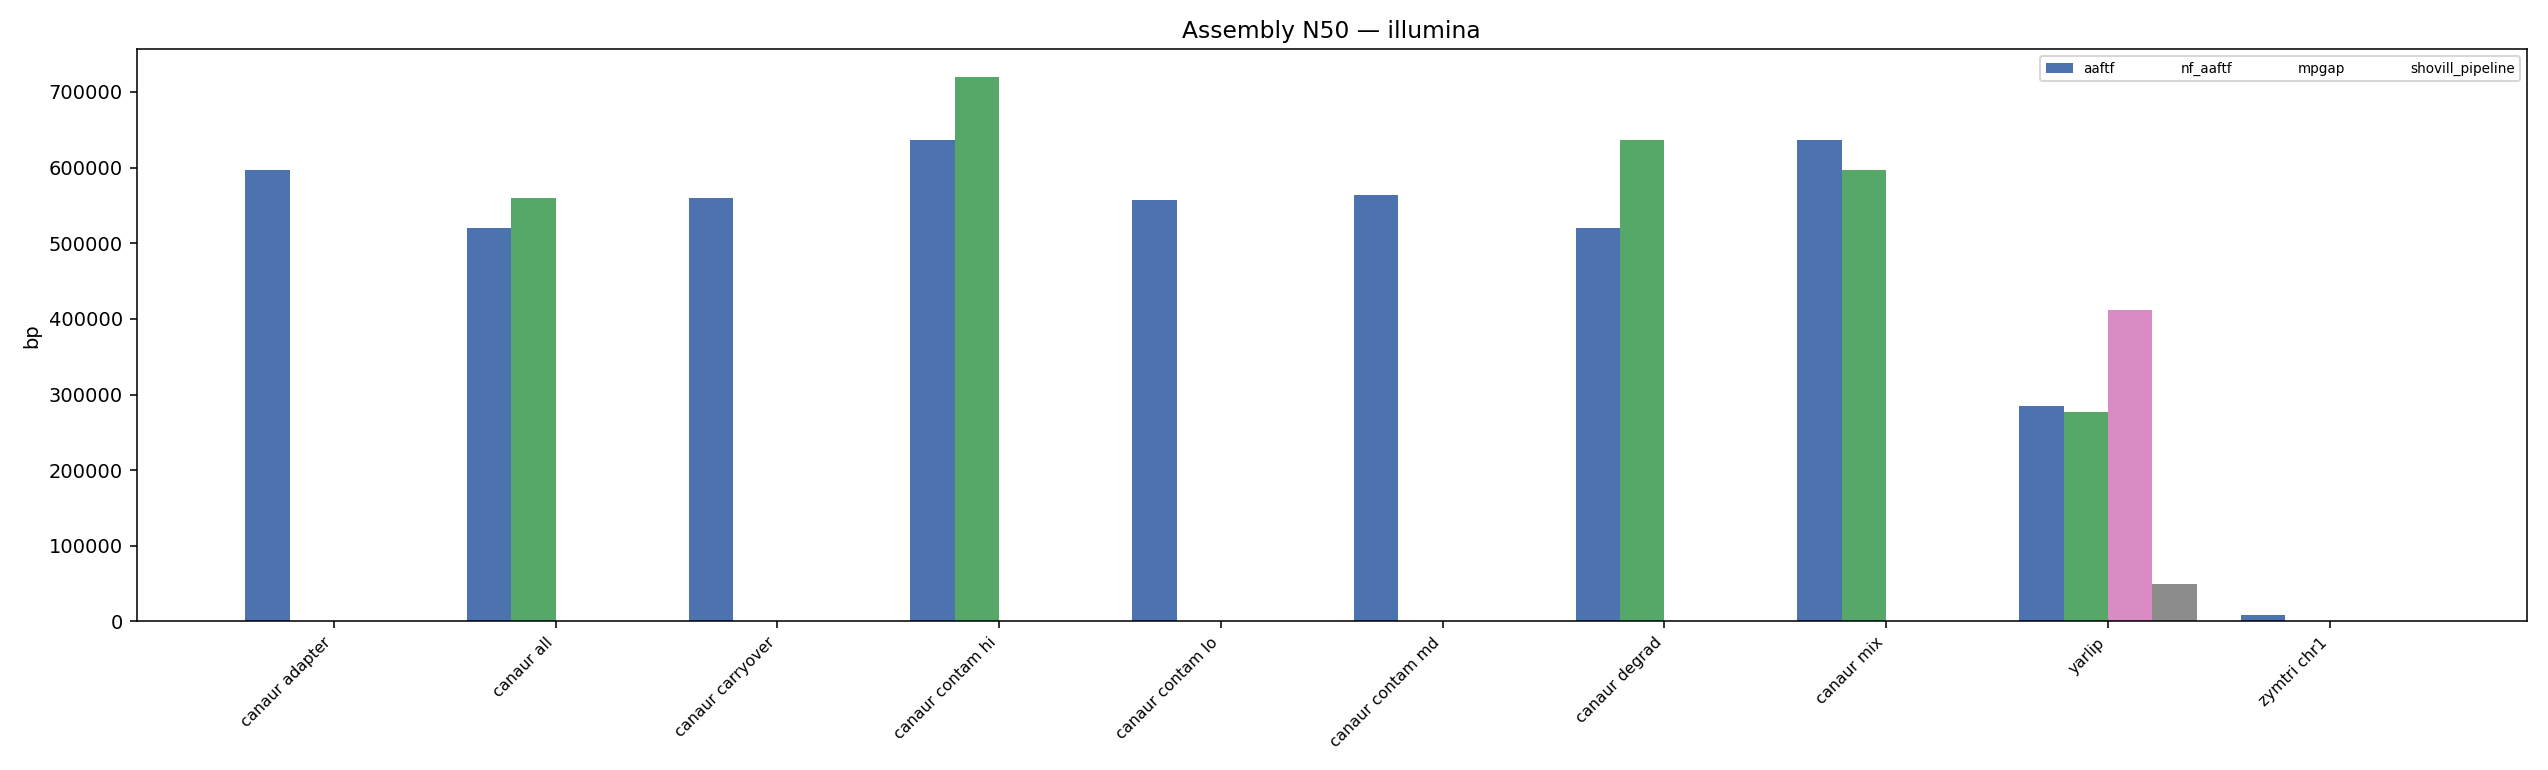
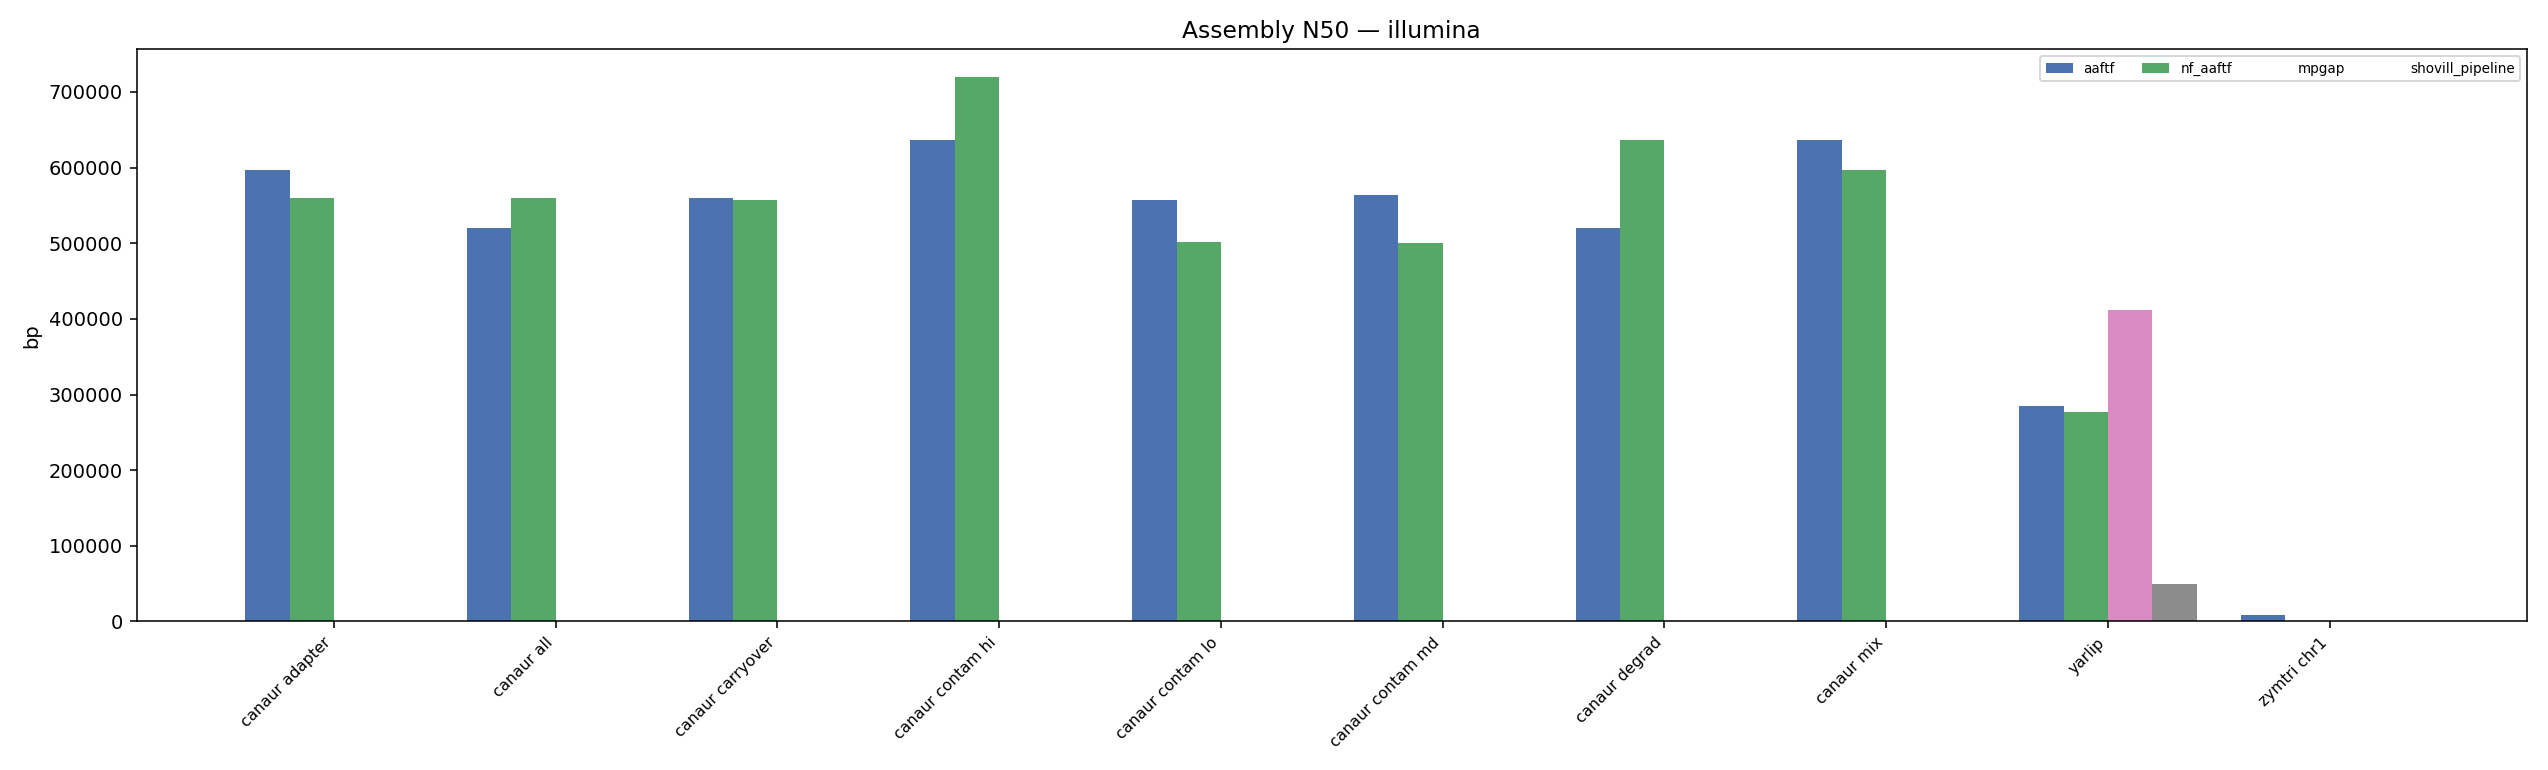
Add final 4 nf_aaftf canaur runs; all 8 canaur datasets now have both aaftf and nf_aaftf results
canaur_sim_adapter_001/carryover_001/contam_lo_001/contam_md_001 completed
after clearing the account-wide SLURM queue congestion (~51,000s wall-clock
each, same congestion artifact as the other 3 canaur nf_aaftf runs).

diff --git a/scripts/build_eval_report.py b/scripts/build_eval_report.py
@@ -68,7 +68,11 @@ NF_SPOTCHECKS = ["canaur_sim_contam_hi_001", "zymtri_sim_chr1_001"]
 for ds in NF_SPOTCHECKS:
     RUNS.append(("nf_aaftf", ds, str(BATCH_DIR / f"nf_{ds}"),
                  REPO_ROOT / f"datasets/sim/{ds}/refs/{ds}.truth.fa"))
-NF_SLURM_SWEEP = ["canaur_sim_all_001", "canaur_sim_degrad_001", "canaur_sim_mix_001"]
+NF_SLURM_SWEEP = [
+    "canaur_sim_all_001", "canaur_sim_degrad_001", "canaur_sim_mix_001",
+    "canaur_sim_adapter_001", "canaur_sim_carryover_001",
+    "canaur_sim_contam_lo_001", "canaur_sim_contam_md_001",
+]
 for ds in NF_SLURM_SWEEP:
     RUNS.append(("nf_aaftf", ds, str(REPO_ROOT / f"results/adhoc/nf_aaftf/{ds}"),
                  REPO_ROOT / f"datasets/sim/{ds}/refs/{ds}.truth.fa"))
@@ -295,11 +299,13 @@ def write_report(rows, figs_by_tech):
         "- `cryneo_sim_contam_hi_001` runs (`hifiasm_pipeline`, `flye_pipeline`) were validated "
         "before the read-ID-collision simulator fix (see git history); results are unaffected "
         "since both adapters either tolerate or work around the collision.\n"
-        "- `nf_aaftf` wall-clock on `canaur_sim_all_001`/`degrad_001`/`mix_001` (~31,000s, vs. "
-        "~2,400-2,900s for every other `nf_aaftf` run) reflects account-wide SLURM queue "
-        "congestion from unrelated jobs during that sweep, not a real pipeline slowdown -- "
-        "treat those three wall-clock values as unreliable; assembly-quality metrics for them "
-        "are unaffected.\n"
+        "- `nf_aaftf` wall-clock on 7 of the 8 `canaur_sim_*` datasets (~31,000-51,500s, vs. "
+        "~2,400-2,900s for `yarlip_sim_001`/`canaur_sim_contam_hi_001`) reflects account-wide "
+        "SLURM queue congestion from unrelated jobs during that sweep -- `nf_aaftf` submits "
+        "each pipeline stage as its own SLURM sub-job, so those sub-jobs queued behind "
+        "hundreds of pending jobs from other work on the account. Not a real pipeline "
+        "slowdown; treat those wall-clock values as unreliable. Assembly-quality metrics "
+        "for them are unaffected.\n"
         "- All runs used real containerized tools against real (not placeholder) simulated read "
         "data; none of these numbers are smoke-test placeholders.\n"
     )

diff --git a/docs/reports/2026-08-19-benchmark-summary.md b/docs/reports/2026-08-19-benchmark-summary.md
@@ -38,13 +38,17 @@ Timing, assembly quality, and truth-genome accuracy for every pipeline validated
 | Pipeline | Dataset | Wall (s) | Contigs | Total (bp) | N50 | Truth cov % | Truth seqs hit |
 |---|---|---:|---:|---:|---:|---:|---:|
 | aaftf | canaur_sim_adapter_001 | 2016 | 72 | 12,011,427 | 596,823 | 99.59 | 7/7 |
+| nf_aaftf | canaur_sim_adapter_001 | 51489 | 35 | 12,014,478 | 560,283 | 98.54 | 7/7 |
 | aaftf | canaur_sim_all_001 | 1691 | 75 | 11,992,462 | 519,954 | 99.34 | 7/7 |
 | nf_aaftf | canaur_sim_all_001 | 31089 | 39 | 11,988,416 | 559,235 | 99.15 | 7/7 |
 | aaftf | canaur_sim_carryover_001 | 2239 | 73 | 12,008,126 | 559,247 | 99.59 | 7/7 |
+| nf_aaftf | canaur_sim_carryover_001 | 51489 | 43 | 12,014,336 | 557,043 | 99.39 | 7/7 |
 | aaftf | canaur_sim_contam_hi_001 | 2173 | 68 | 12,013,760 | 635,962 | 99.53 | 7/7 |
 | nf_aaftf | canaur_sim_contam_hi_001 | 2894 | 38 | 12,011,267 | 720,160 | 99.32 | 7/7 |
 | aaftf | canaur_sim_contam_lo_001 | 2096 | 72 | 12,009,166 | 557,181 | 99.49 | 7/7 |
+| nf_aaftf | canaur_sim_contam_lo_001 | 51369 | 42 | 12,005,484 | 501,514 | 99.43 | 7/7 |
 | aaftf | canaur_sim_contam_md_001 | 2045 | 76 | 12,012,489 | 563,958 | 99.52 | 7/7 |
+| nf_aaftf | canaur_sim_contam_md_001 | 51489 | 38 | 12,001,798 | 500,888 | 99.42 | 7/7 |
 | aaftf | canaur_sim_degrad_001 | 1876 | 72 | 11,991,880 | 520,029 | 99.25 | 7/7 |
 | nf_aaftf | canaur_sim_degrad_001 | 31148 | 35 | 11,982,400 | 635,968 | 99.15 | 7/7 |
 | aaftf | canaur_sim_mix_001 | 2301 | 73 | 12,009,866 | 636,519 | 99.57 | 7/7 |
@@ -59,4 +63,5 @@ Timing, assembly quality, and truth-genome accuracy for every pipeline validated
 
 - `zymtri_sim_chr1_001` is a deliberately low-coverage (10x), single-chromosome fixture; its low N50/coverage here reflects the fixture design, not a pipeline defect.
 - `cryneo_sim_contam_hi_001` runs (`hifiasm_pipeline`, `flye_pipeline`) were validated before the read-ID-collision simulator fix (see git history); results are unaffected since both adapters either tolerate or work around the collision.
+- `nf_aaftf` wall-clock on 7 of the 8 `canaur_sim_*` datasets (~31,000-51,500s, vs. ~2,400-2,900s for `yarlip_sim_001`/`canaur_sim_contam_hi_001`) reflects account-wide SLURM queue congestion from unrelated jobs during that sweep -- `nf_aaftf` submits each pipeline stage as its own SLURM sub-job, so those sub-jobs queued behind hundreds of pending jobs from other work on the account. Not a real pipeline slowdown; treat those wall-clock values as unreliable. Assembly-quality metrics for them are unaffected.
 - All runs used real containerized tools against real (not placeholder) simulated read data; none of these numbers are smoke-test placeholders.
